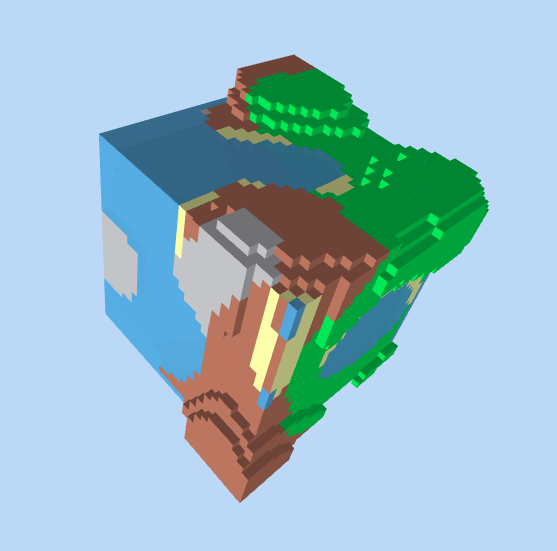
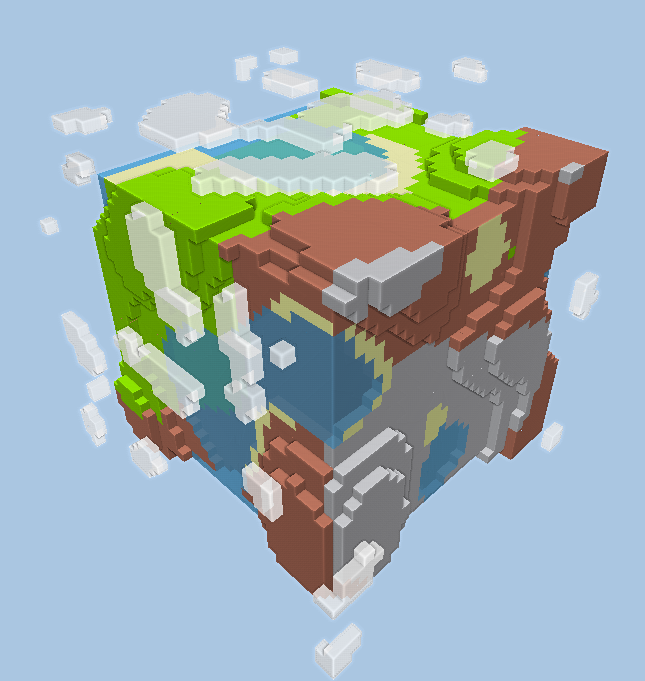
Update readme and preview

diff --git a/README.md b/README.md
@@ -2,6 +2,8 @@
 
 Procedural planet
 
+[Link:](https://will3.github.io/little-planet/)
+
 Preview:  
 ![Preview](https://raw.githubusercontent.com/will3/little-planet/master/preview.png)
 
